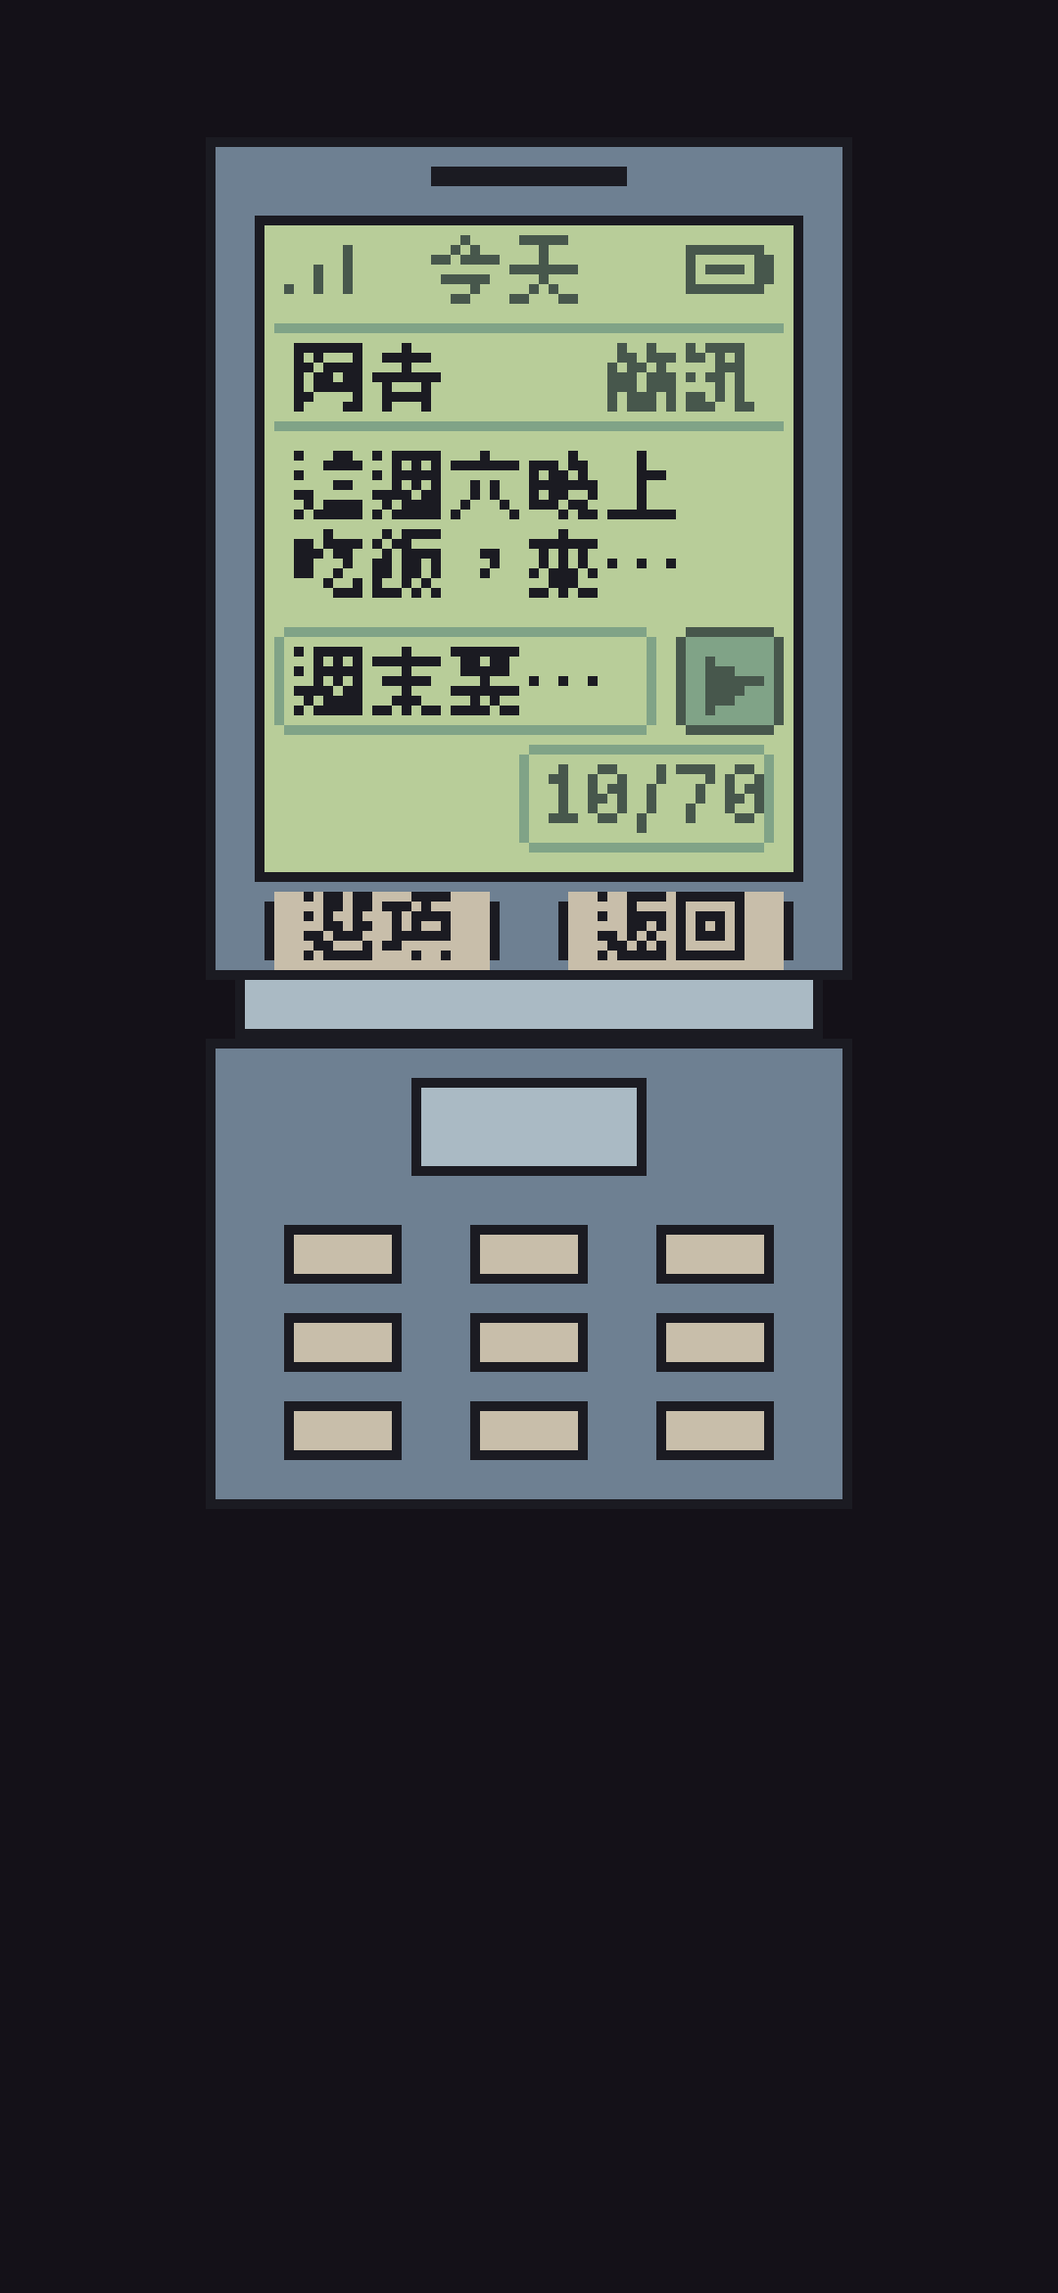
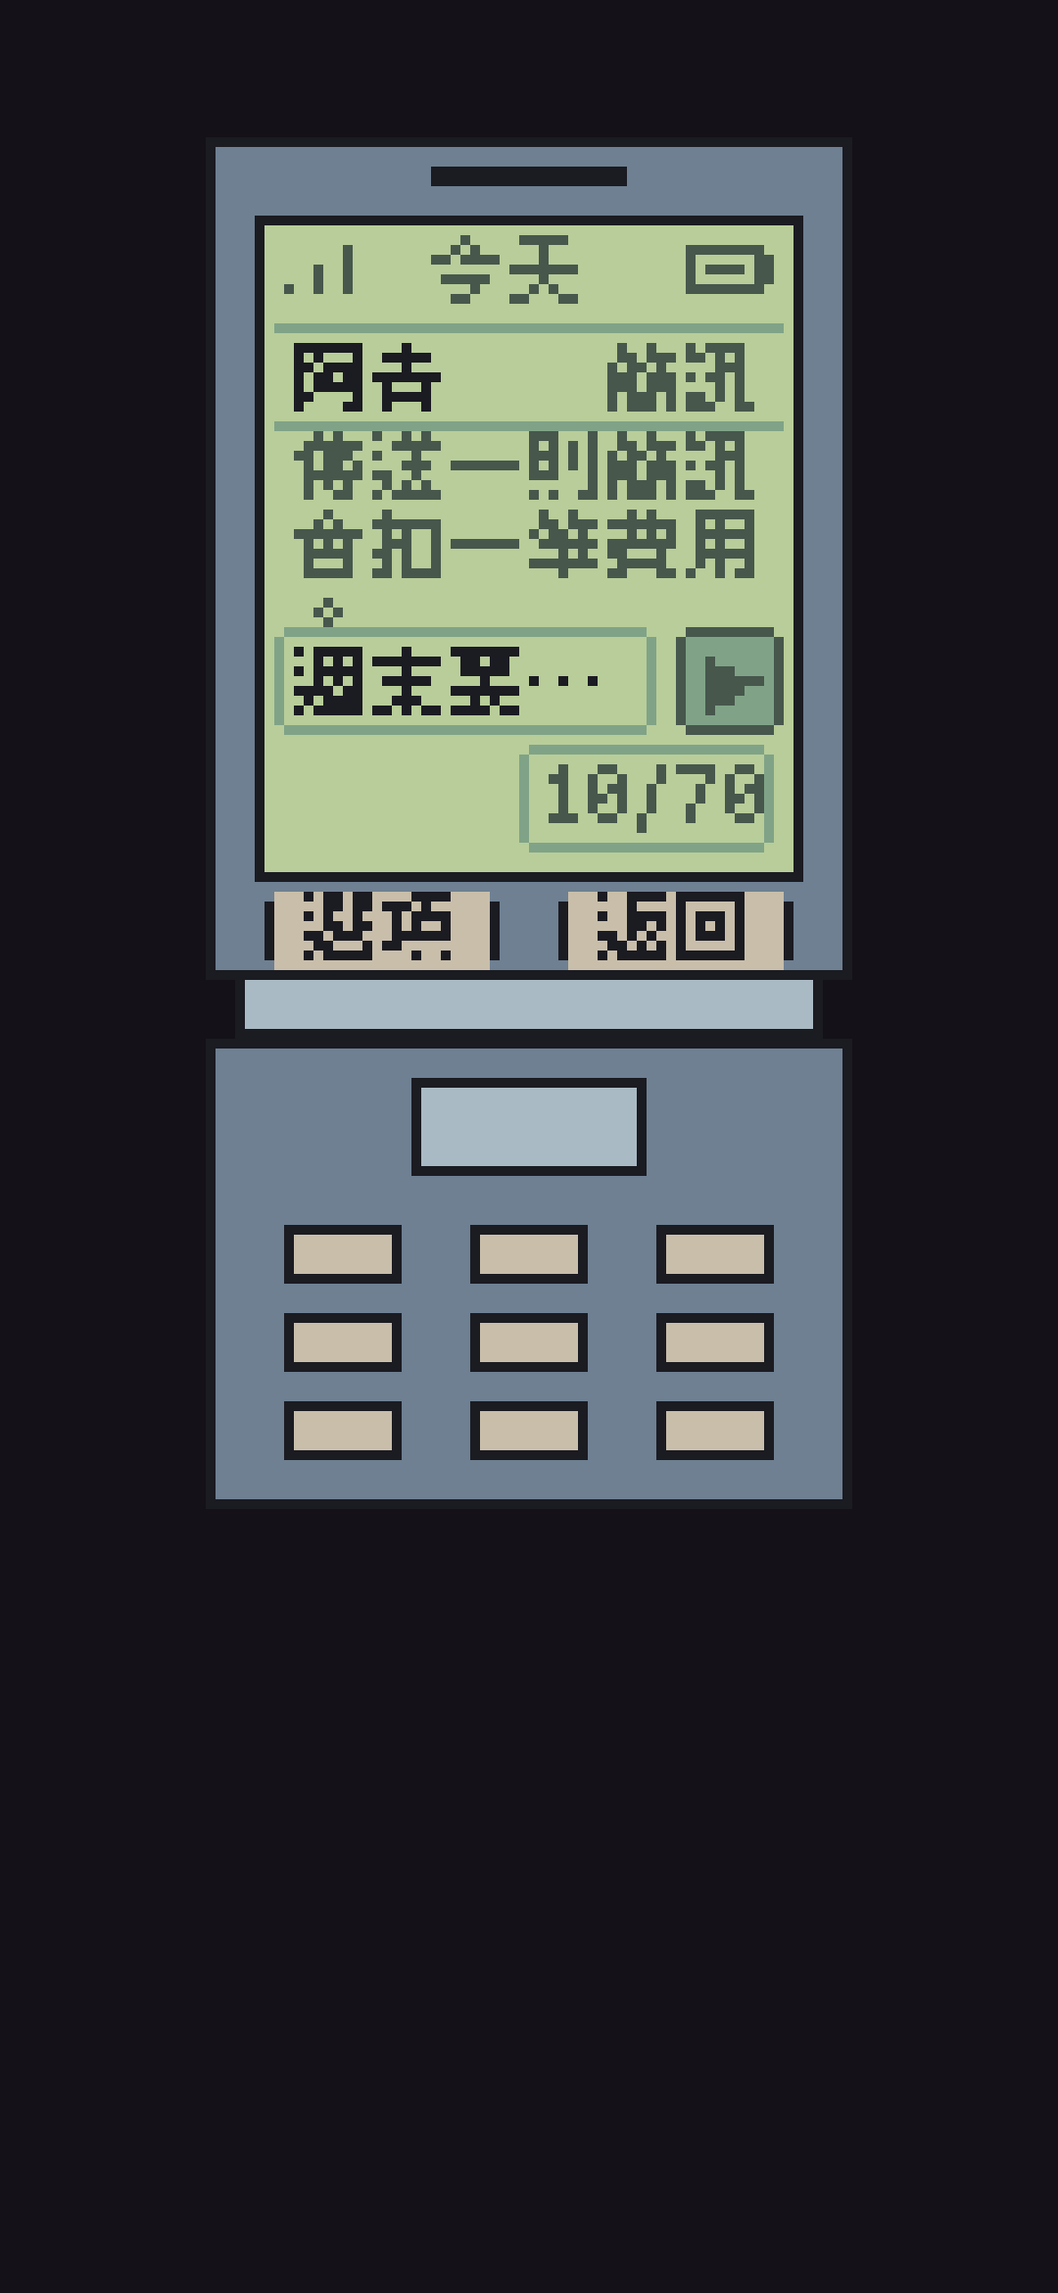
Phone B: Messages review fixes (fee hint, fade tag, bill key, 70-char test)
Draw 公主's fee hint on compose screens. List fade rows use fadeShortTag
so the time (e.g. 三年前) is visible. SMS fees go to
phone.bill.smsPendingUsd (key table row 200) at send; monthly settlement
deducts from savings once and resets. Tests cover no double deduction,
exact cover vs one short, and 70 vs 71 characters.

Changed region(s): [[0.275, 0.1872, 0.7333, 0.2808]]

diff --git a/tests/messages_logic_test.js b/tests/messages_logic_test.js
@@ -30,7 +30,7 @@ pass('phone.gen flip → SMS, smart/thin → chat');
   pass('last line is newest messages[] entry for that personId');
 }
 
-// —— SMS fee deducted from savingsUsd; insufficient does not send ——
+// —— SMS fee is recorded as pending; savings is not deducted at send ——
 {
   const state = L.makeSampleState('compose');
   assert.strictEqual(L.messagesUiKind(state.phone.gen), 'sms');
@@ -38,26 +38,28 @@ pass('phone.gen flip → SMS, smart/thin → chat');
   const before = state.messages.length;
   const r1 = L.sendMessage(state, { personId: 'friend_qing', textId: 'out.friend.sms.meal.1' });
   assert.strictEqual(r1.ok, true);
-  assert.strictEqual(state.savingsUsd, 2);
-  assert.strictEqual(state._sample.pendingSmsFeesUsd, 1);
+  assert.strictEqual(state.savingsUsd, 3, 'send does not deduct savings');
+  assert.strictEqual(state.phone.bill.smsPendingUsd, 1);
   assert.strictEqual(state.messages.length, before + 1);
   assert.strictEqual(state.messages[state.messages.length - 1].from, 'self');
   assert.strictEqual(state.messages[state.messages.length - 1].textId, 'out.friend.sms.meal.1');
   const r2 = L.sendMessage(state, { personId: 'friend_qing', textId: 'out.friend.sms.hi.1' });
   assert.strictEqual(r2.ok, true);
-  assert.strictEqual(state.savingsUsd, 1);
+  assert.strictEqual(state.savingsUsd, 3);
+  assert.strictEqual(state.phone.bill.smsPendingUsd, 2);
   const r3 = L.sendMessage(state, { personId: 'friend_qing', textId: 'out.friend.sms.drive.1' });
   assert.strictEqual(r3.ok, true);
-  assert.strictEqual(state.savingsUsd, 0);
+  assert.strictEqual(state.savingsUsd, 3);
+  assert.strictEqual(state.phone.bill.smsPendingUsd, 3);
   const n = state.messages.length;
   const fail = L.sendMessage(state, { personId: 'friend_qing', textId: 'out.friend.sms.hi.2' });
   assert.strictEqual(fail.ok, false);
   assert.strictEqual(fail.reason, 'insufficient');
   assert.strictEqual(fail.message, '存款不足，這則簡訊沒有送出。');
-  assert.strictEqual(state.savingsUsd, 0, 'savings unchanged on failure');
+  assert.strictEqual(state.savingsUsd, 3, 'savings unchanged on failure');
   assert.strictEqual(state.messages.length, n, 'no message written on failure');
-  assert.strictEqual(state._sample.pendingSmsFeesUsd, 3);
-  pass('SMS fee 1 from savings; insufficient shows 公主 wording and does not send');
+  assert.strictEqual(state.phone.bill.smsPendingUsd, 3, 'failed send does not add a fee');
+  pass('SMS fee goes to phone.bill.smsPendingUsd at send; insufficient uses 公主 wording and does not send');
 }
 
 // chat (smart / thin) does not charge
@@ -76,18 +78,78 @@ pass('phone.gen flip → SMS, smart/thin → chat');
   pass('smart and thin chat sends do not deduct savings');
 }
 
-// monthly settlement parks fees in the sample bag (no official bill key)
+// monthly settlement deducts pending fees from savings once, then resets to 0
 {
   const state = L.makeSampleState('compose');
   state.savingsUsd = 5;
   L.sendMessage(state, { personId: 'friend_qing', textId: 'out.friend.sms.hi.1' });
   L.sendMessage(state, { personId: 'friend_qing', textId: 'out.friend.sms.hi.2' });
+  assert.strictEqual(state.savingsUsd, 5, 'still not deducted before settle');
+  assert.strictEqual(state.phone.bill.smsPendingUsd, 2);
   const settled = L.settleMonth(state);
   assert.strictEqual(settled.addedUsd, 2);
   assert.strictEqual(settled.billSmsUsd, 2);
-  assert.strictEqual(state._sample.pendingSmsFeesUsd, 0);
-  assert.ok(settled.missingKey.indexOf('phone.bill') !== -1);
-  pass('settleMonth moves pending SMS fees into the sample bill bag');
+  assert.strictEqual(state.phone.bill.smsPendingUsd, 0);
+  assert.strictEqual(state.savingsUsd, 3);
+  const again = L.settleMonth(state);
+  assert.strictEqual(again.addedUsd, 0);
+  assert.strictEqual(state.savingsUsd, 3, 'second settle does not deduct again');
+  assert.strictEqual(state.phone.bill.smsPendingUsd, 0);
+  pass('settleMonth deducts pending SMS fees from savings once and resets the bill key');
+}
+
+// savings exactly covering pending+fee may send; one point short is blocked
+{
+  const state = L.makeSampleState('compose');
+  state.savingsUsd = 2;
+  state.phone.bill.smsPendingUsd = 1;
+  const n = state.messages.length;
+  const ok = L.sendMessage(state, { personId: 'friend_qing', textId: 'out.friend.sms.hi.1' });
+  assert.strictEqual(ok.ok, true, 'savings 2 with pending 1 covers this fee of 1');
+  assert.strictEqual(state.savingsUsd, 2);
+  assert.strictEqual(state.phone.bill.smsPendingUsd, 2);
+  assert.strictEqual(state.messages.length, n + 1);
+  const blocked = L.sendMessage(state, { personId: 'friend_qing', textId: 'out.friend.sms.hi.2' });
+  assert.strictEqual(blocked.ok, false);
+  assert.strictEqual(blocked.reason, 'insufficient');
+  assert.strictEqual(blocked.message, '存款不足，這則簡訊沒有送出。');
+  assert.strictEqual(state.savingsUsd, 2);
+  assert.strictEqual(state.phone.bill.smsPendingUsd, 2);
+  assert.strictEqual(state.messages.length, n + 1);
+  const settled = L.settleMonth(state);
+  assert.strictEqual(settled.addedUsd, 2);
+  assert.strictEqual(state.savingsUsd, 0);
+  assert.strictEqual(state.phone.bill.smsPendingUsd, 0);
+  pass('send allowed when savings exactly covers pending+fee; one short is blocked');
+}
+
+// 70 characters allowed; the 71st is rejected (current send path does not truncate)
+{
+  const state = L.makeSampleState('compose');
+  state.savingsUsd = 10;
+  T.TEXTS['test.chars70'] = '字'.repeat(70);
+  T.TEXTS['test.chars71'] = '字'.repeat(71);
+  try {
+    assert.strictEqual(L.smsCharCount(T.TEXTS['test.chars70']), 70);
+    assert.strictEqual(L.smsCharCount(T.TEXTS['test.chars71']), 71);
+    const r70 = L.sendMessage(state, { personId: 'friend_qing', textId: 'test.chars70' });
+    assert.strictEqual(r70.ok, true);
+    assert.strictEqual(state.phone.bill.smsPendingUsd, 1);
+    const n = state.messages.length;
+    const pending = state.phone.bill.smsPendingUsd;
+    const sav = state.savingsUsd;
+    const r71 = L.sendMessage(state, { personId: 'friend_qing', textId: 'test.chars71' });
+    assert.strictEqual(r71.ok, false);
+    assert.strictEqual(r71.reason, 'char_full');
+    assert.strictEqual(r71.message, '字數已滿，請再短一點。');
+    assert.strictEqual(state.messages.length, n, '71st character does not send');
+    assert.strictEqual(state.phone.bill.smsPendingUsd, pending);
+    assert.strictEqual(state.savingsUsd, sav);
+  } finally {
+    delete T.TEXTS['test.chars70'];
+    delete T.TEXTS['test.chars71'];
+  }
+  pass('SMS 70 characters allowed; 71st rejected as 字數已滿');
 }
 
 // —— dead relative is read-only (parents.*.alive, no new key) ——
@@ -192,10 +254,12 @@ pass('phone.gen flip → SMS, smart/thin → chat');
   pass('7 incoming categories × 3 replies (sms and chat), verbatim catalog');
 }
 
-// missing official keys are listed, not invented
+// official bill key (狀態鍵表第 200 列) is used; no longer listed as missing
 {
-  assert.ok(L.MISSING_KEYS.some(k => k.proposed.indexOf('phone.bill') !== -1));
-  pass('missing official keys listed for 小兵2號');
+  const state = L.makeSampleState('compose');
+  assert.strictEqual(state.phone.bill.smsPendingUsd, 0);
+  assert.strictEqual(L.MISSING_KEYS.length, 0);
+  pass('phone.bill.smsPendingUsd is the official pending SMS bill key');
 }
 
 console.log('OK messages_logic_test.js');

diff --git a/messages_logic.js b/messages_logic.js
@@ -4,7 +4,7 @@
     ? require('./messages_text.js')
     : root.MessagesText;
 
-  const SMS_FEE_USD = 1; // 王：每則從存款扣一點
+  const SMS_FEE_USD = 1; // 每則 1 點：送出時計入本月待結，月結時才從存款扣一次
   const SMS_CHAR_LIMIT = 70; // 公主：約七十字，暫定
   const FRIEND_FADE_DAYS = 365; // 狀態鍵表：朋友 365 天少聯絡 → 變淡
   const CLOSENESS_DELTA = 0.02; // 傳送後輕觸 closeness（若該人已有此鍵）
@@ -218,6 +218,22 @@
     return Array.from(text || '').length;
   }
 
+
+  // 狀態鍵表第 200 列 phone.bill.smsPendingUsd：
+  // 本月已送出簡訊的累計費用，月結從存款扣一次後歸 0。
+  // 樣本直接寫在 state.phone.bill.smsPendingUsd，正式接鍵時不必再改名。
+  function smsPendingUsd(state) {
+    const bill = state.phone && state.phone.bill;
+    return Number(bill && bill.smsPendingUsd) || 0;
+  }
+
+  function setSmsPendingUsd(state, value) {
+    state.phone = state.phone || {};
+    state.phone.bill = state.phone.bill || {};
+    state.phone.bill.smsPendingUsd = value;
+    return value;
+  }
+
   function sendMessage(state, opts) {
     opts = opts || {};
     const personId = opts.personId;
@@ -234,13 +250,12 @@
         return { ok: false, reason: 'char_full', message: T.UI.charFullLine };
       }
       const savings = Number(state.savingsUsd);
-      if (!(savings >= SMS_FEE_USD)) {
+      const pending = smsPendingUsd(state);
+      // 可支用額 = 存款 − 本月已待結簡訊費。不夠則用公主「存款不足」句，不送出、不記帳。
+      if (!((savings - pending) >= SMS_FEE_USD)) {
         return { ok: false, reason: 'insufficient', message: T.UI.insufficientLine };
       }
-      state.savingsUsd = savings - SMS_FEE_USD;
-      // Sample-only bag — not a 狀態鍵. 月結時本應併入電話費，正式鍵尚未登記。
-      state._sample = state._sample || { pendingSmsFeesUsd: 0, settledSmsFeesUsd: 0 };
-      state._sample.pendingSmsFeesUsd = (state._sample.pendingSmsFeesUsd || 0) + SMS_FEE_USD;
+      setSmsPendingUsd(state, pending + SMS_FEE_USD);
     }
     if (!state.messages) state.messages = [];
     state.messages.push({
@@ -302,16 +317,16 @@
     state.relationships.people[personId] = rec;
   }
 
-  // 月結：把本月簡訊費併入電話費。正式 phone bill 鍵尚未在狀態鍵表，只累到樣本欄。
+  // 月結：把本月簡訊費從存款扣一次，並將 phone.bill.smsPendingUsd 歸 0（鍵表第 200 列）。
   function settleMonth(state) {
-    state._sample = state._sample || { pendingSmsFeesUsd: 0, settledSmsFeesUsd: 0 };
-    const pending = state._sample.pendingSmsFeesUsd || 0;
-    state._sample.settledSmsFeesUsd = (state._sample.settledSmsFeesUsd || 0) + pending;
-    state._sample.pendingSmsFeesUsd = 0;
+    const pending = smsPendingUsd(state);
+    const savings = Number(state.savingsUsd) || 0;
+    state.savingsUsd = savings - pending;
+    setSmsPendingUsd(state, 0);
     return {
       addedUsd: pending,
-      billSmsUsd: state._sample.settledSmsFeesUsd,
-      missingKey: 'phone.bill（或同等電話費月結鍵；狀態鍵表尚無，簡訊費暫存在樣本 _sample.pendingSmsFeesUsd / settledSmsFeesUsd）'
+      billSmsUsd: pending,
+      savingsUsd: state.savingsUsd
     };
   }
 
@@ -334,7 +349,7 @@
     const state = {
       day: TODAY,
       selfName: '小安',
-      phone: { owned: true, gen: 'smart' },
+      phone: { owned: true, gen: 'smart', bill: { smsPendingUsd: 0 } },
       savingsUsd: 40,
       messages: [
         { personId: 'mother', day: recent, from: 'other', textId: 'hist.mother.other.eat', replyOptionId: null, effect: null },
@@ -356,8 +371,8 @@
       parents: {
         mother: { alive: true, deathAge: null, personId: 'mother', name: '媽' },
         father: { alive: true, deathAge: null, personId: 'father', name: '爸' }
-      },
-      _sample: { pendingSmsFeesUsd: 0, settledSmsFeesUsd: 0 }
+      }
+      // phone.bill.smsPendingUsd 見上；樣本不再另放 _sample 待結欄，以免雙邊記帳。
     };
 
     fixture = fixture || 'list';
@@ -398,13 +413,8 @@
     return state;
   }
 
-  const MISSING_KEYS = [
-    {
-      need: '電話費月結（簡訊費併入帳單顯示）',
-      proposed: 'phone.bill 或 phone.bill.smsUsd / 既有電話費鍵',
-      note: '王定：簡訊費從存款扣、月結併入電話費。狀態鍵表無電話費鍵。樣本暫用 _sample.pendingSmsFeesUsd 與 _sample.settledSmsFeesUsd，不寫進鍵表。'
-    }
-  ];
+  // 電話費待結已接狀態鍵表第 200 列 phone.bill.smsPendingUsd，不再列為缺鍵。
+  const MISSING_KEYS = [];
 
   const api = {
     SMS_FEE_USD, SMS_CHAR_LIMIT, FRIEND_FADE_DAYS, CLOSENESS_DELTA,
@@ -413,7 +423,7 @@
     personVars, resolveText, lastLineText, fadeListLine, deadOpener, fadeOpener,
     outgoingPresets, incomingPack, contactList, canCompose, smsCharCount,
     sendMessage, receiveIncoming, replyIncoming, bumpRelationship, settleMonth,
-    defaultPeople, makeSampleState, MISSING_KEYS
+    defaultPeople, makeSampleState, MISSING_KEYS, smsPendingUsd, setSmsPendingUsd
   };
   if (typeof module === 'object' && module.exports) module.exports = api;
   root.MessagesLogic = api;

diff --git a/messages.js b/messages.js
@@ -397,7 +397,7 @@
     vis.forEach((row, i) => {
       const y = startY + i * rowH;
       drawPixelText(g, row.name, [x, y, width, 8], pri, { maxLines: 1 });
-      const line = row.faded ? (row.fadeTag || row.fadeListLine) : (row.lastLine || T.UI.emptyList.sms);
+      const line = row.faded ? fadeShortTag(row) : (row.lastLine || T.UI.emptyList.sms);
       drawPixelText(g, line, [x, y + 8, width, 8], sec, { maxLines: 1 });
       hit('contact', [x, y, width, rowH], { personId: row.personId });
     });
@@ -435,10 +435,17 @@
     } else {
       drawPixelText(g, T.UI.itemName.sms, rectOf('sms_flip', 'message_stamp'), sec, { align: 'right' });
     }
-    const body = app.banner && app.banner !== T.UI.feeHint ? app.banner : (last || T.UI.emptyList.sms);
-    drawPixelText(g, body, rectOf('sms_flip', 'message_body'), pri, { maxLines: 2 });
     if (app.banner === T.UI.feeHint) {
-      // fee hint sits in the stamp if not faded; otherwise already shown as body prefix — keep last line as body
+      // 「傳送一則簡訊會扣一筆費用。」13 字 × 8px = 104px。
+      // 收件人橫線（y=31）到輸入框頂（y=52）只有 20px；用 48px 寬排成 6+6+1。
+      // 前兩行用完整 8px 格；句號上移 1px、高度 5px，避免被輸入框頂線切掉。
+      const hintLines = wrapText(T.UI.feeHint, 48);
+      drawPixelText(g, hintLines[0] || '', [24, 32, 48, 8], sec, { maxLines: 1 });
+      if (hintLines[1]) drawPixelText(g, hintLines[1], [24, 40, 48, 8], sec, { maxLines: 1 });
+      if (hintLines[2]) drawPixelText(g, hintLines[2], [24, 47, 48, 5], sec, { maxLines: 1 });
+    } else {
+      const body = app.banner ? app.banner : (last || T.UI.emptyList.sms);
+      drawPixelText(g, body, rectOf('sms_flip', 'message_body'), pri, { maxLines: 2 });
     }
     const draft = draftText();
     drawPixelText(g, draft || (app.banner === T.UI.feeHint ? T.UI.composeNew.sms : ''), rectOf('sms_flip', 'input_field'), pri, { maxLines: 1 });
@@ -486,8 +493,8 @@
       blitNN(g, av, 18, y, 16, 16);
       drawPixelText(g, row.name, [36, y, 42, 8], pri, { maxLines: 1 });
       if (row.faded) {
-        // §四：時間標籤 + 列表變淡行
-        drawPixelText(g, row.fadeTag, [36, y + 8, 42, 8], sec, { maxLines: 1 });
+        // 列表 42px 放不下「上次聊天是三年前」，改用 fadeShortTag「三年前」。畫面不用「變淡」。
+        drawPixelText(g, fadeShortTag(row), [36, y + 8, 42, 8], sec, { maxLines: 1 });
       } else {
         drawPixelText(g, row.lastLine || T.UI.emptyList.chat, [36, y + 8, 42, 8], sec, { maxLines: 1 });
       }
@@ -522,6 +529,8 @@
       // opener is long; keep the header clean and write the full line below
     } else if (faded) {
       // Full 64px LCD width sits on the conversation stamp row so the 8-glyph tag is not cropped.
+    } else if (app.banner === T.UI.feeHint) {
+      // 扣費說明佔頭像下方兩行，不並畫「已讀」。
     } else {
       drawLabel(g, chrome, T.UI.readByOther.chat, sec);
     }
@@ -537,7 +546,10 @@
     } else if (faded) {
       const days = app.state.day - (L.lastContactDayOf(app.state, p.id) || app.state.day);
       drawPixelText(g, L.fadeTimeTag(days, 'chat'), [16, 41, 64, 8], sec, { maxLines: 1 });
-    } else if (app.banner && app.banner !== T.UI.feeHint) {
+    } else if (app.banner === T.UI.feeHint) {
+      // 聊天撰寫若帶了扣費說明：60px 寬排成兩行，放在頭像列下方、氣泡上方，不遮頭像。
+      drawPixelText(g, T.UI.feeHint, [18, 38, 60, 16], sec, { maxLines: 2 });
+    } else if (app.banner) {
       drawPixelText(g, app.banner, rectOf(chrome, 'conversation_stamp'), sec, { maxLines: 1 });
     }
 

diff --git a/scripts/shoot_messages.py b/scripts/shoot_messages.py
@@ -14,7 +14,7 @@ REPO = Path(__file__).resolve().parents[1]
 PORT = 8875
 BASE = f"http://127.0.0.1:{PORT}"
 OUT_REPO = REPO / "artifacts" / "messages"
-OUT_ALA = Path("/workspace/ala/小兵/2026-11-11/msgapp_shots")
+OUT_ALA = Path("/workspace/ala/小兵/2026-11-11/msgapp_shots_r2")
 
 SHOTS = [
     ("flip_list", "dev=1&shot&orient=portrait&screen=messages&fixture=list", None),
@@ -24,6 +24,8 @@ SHOTS = [
     ("insufficient_savings", "dev=1&shot&orient=portrait&screen=messages&fixture=nosavings", "insufficient"),
     ("dead_readonly", "dev=1&shot&orient=portrait&screen=messages&fixture=dead", None),
     ("fade_label", "dev=1&shot&orient=portrait&screen=messages&fixture=fade", None),
+    ("incoming", "dev=1&shot&orient=portrait&screen=messages&fixture=incoming&gen=smart", None),
+    ("smart_compose", "dev=1&shot&orient=portrait&screen=messages&fixture=compose&gen=smart", None),
 ]
 
 

diff --git a/artifacts/messages/README.md b/artifacts/messages/README.md
@@ -4,12 +4,14 @@
 
 | 檔名 | 畫面 |
 |---|---|
-| `flip_list.png` | 翻蓋機收件匣（最後一句取自 `messages[]`，少聯絡朋友顯示時間標籤） |
-| `flip_compose.png` | 翻蓋機撰寫簡訊（軟鍵「選項」「返回」，字數格） |
-| `chat_list.png` | 智慧型手機聊天列表 |
+| `flip_list.png` | 翻蓋機收件匣（最後一句取自 `messages[]`，少聯絡朋友第二行用時間短標如「三年前」） |
+| `flip_compose.png` | 翻蓋機撰寫簡訊（扣費說明「傳送一則簡訊會扣一筆費用。」、軟鍵「選項」「返回」，字數格） |
+| `chat_list.png` | 智慧型手機聊天列表（變淡列同樣顯示時間短標） |
 | `chat_thread_photo.png` | 聊天對話，含對方照片氣泡 |
 | `insufficient_savings.png` | 「存款不足，這則簡訊沒有送出。」 |
 | `dead_readonly.png` | 過世家人對話只能看，不能傳 |
 | `fade_label.png` | 「上次聊天是三年前」（公主 §四時間標籤） |
+| `incoming.png` | 來訊邀請與回覆 |
+| `smart_compose.png` | 智慧型手機撰寫畫面（同樣畫出扣費說明全文） |
 
-同批也存在 `/workspace/ala/小兵/2026-11-11/msgapp_shots/`。重拍：`python3 scripts/shoot_messages.py`（`?dev=1&screen=messages&shot&fixture=…`）。
+同批也存在 `/workspace/ala/小兵/2026-11-11/msgapp_shots_r2/`。重拍：`python3 scripts/shoot_messages.py`（`?dev=1&screen=messages&shot&fixture=…`）。
